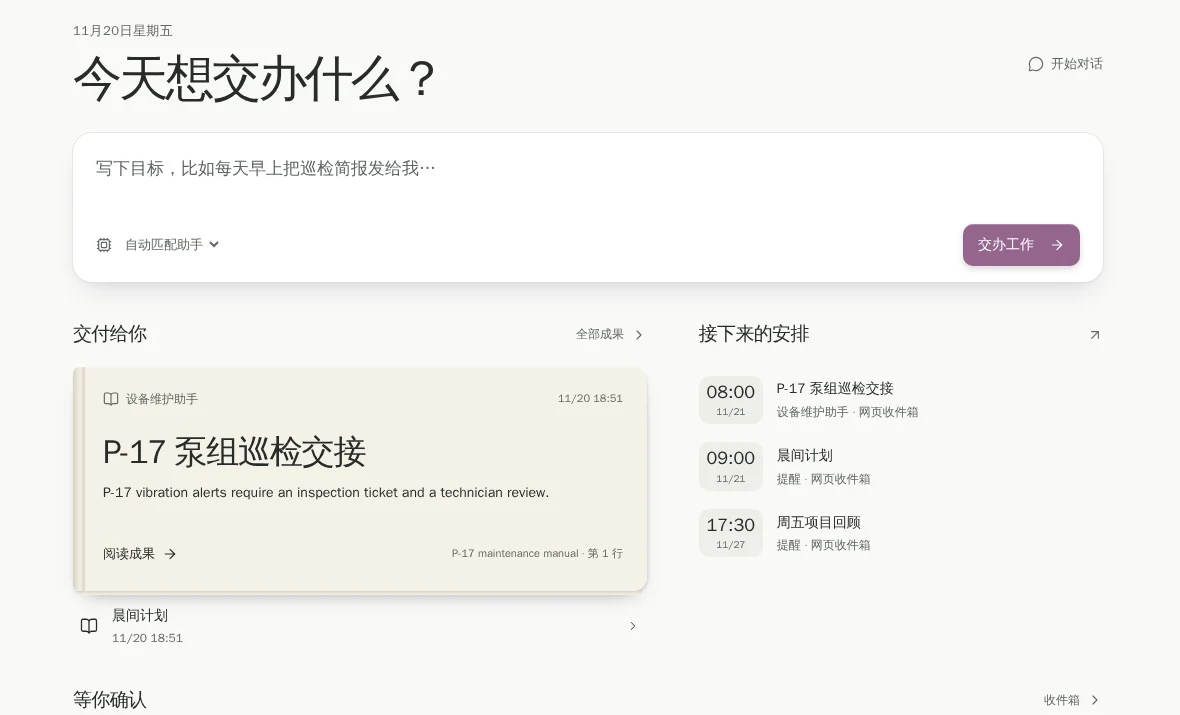
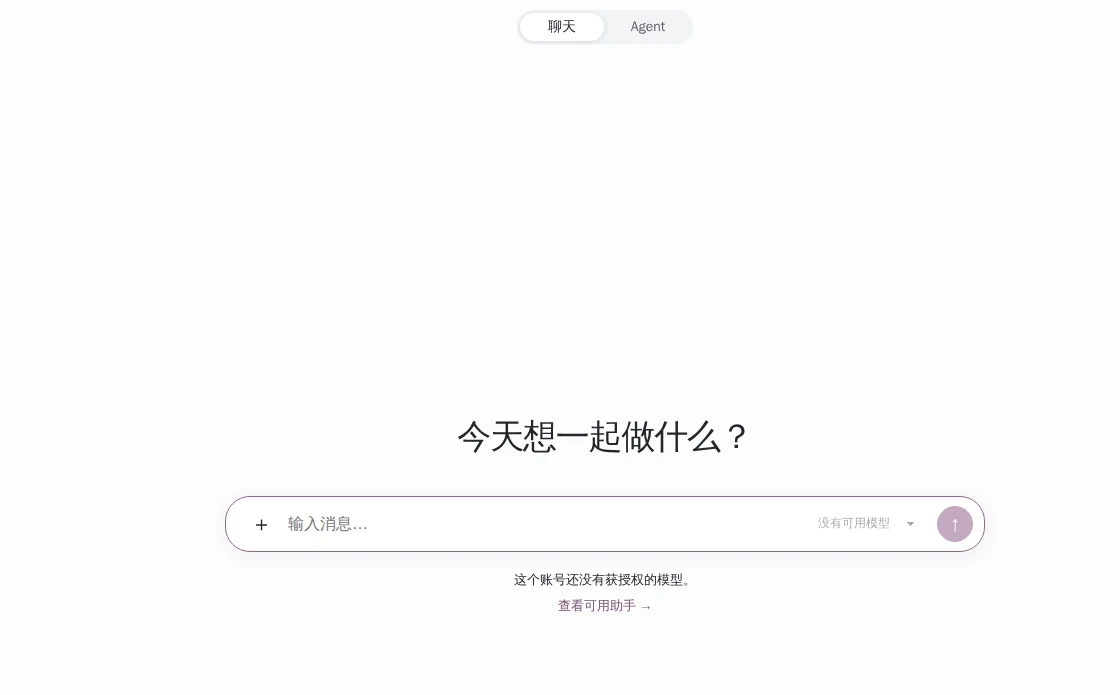
Use the latest Personal Agent workspace and run captures

diff --git a/src/lib/content.ts b/src/lib/content.ts
@@ -108,23 +108,25 @@ export const projects:Project[] = [{
   technologyZh: '源码暂未公开。',
 }, {
   slug: 'personal-agent', title: 'Personal Agent', category: 'Agent workspace', categoryZh: '智能体工作台', year: 2026,
-  summary: 'Delegate tasks, approve actions, and review the results in a self-hosted workspace.',
-  summaryZh: '在自托管工作台委托任务、确认外部操作，并跟进到最终成果。',
-  description: 'Personal Agent gives a task a place to live after it leaves the chat. See what is scheduled, what needs approval, and what has been delivered. The Studio also supports building and testing reusable agents and workflows.',
-  descriptionZh: 'Personal Agent 将对话里交办的任务接入一个可回看的工作台，方便查看近期安排、待确认操作和已交付成果。也可以在 Studio 中搭建和测试可复用的智能体与工作流。',
-  image: '/images/projects/personal-agent-workspace.webp',
-  imageAlt: 'Personal Agent workspace with a task composer, sample deliverables, and a schedule',
+  summary: 'Chat or delegate work in one workspace, then follow each task from its schedule to its result.',
+  summaryZh: '在同一个工作台聊天或交办任务，从执行安排一路跟进到最终结果。',
+  description: 'Personal Agent has two modes. Chat keeps recent conversations and model choice in view. Agent lets you find an assistant, schedule recurring work, and open a result with the recorded steps behind it. Search connects conversations, assistants, tasks, and reports.',
+  descriptionZh: 'Personal Agent 有两种模式。聊天模式支持继续历史会话并选择模型，Agent 模式可以找到助手、安排定时任务，并从交付报告回看实际的执行步骤。全局搜索串起会话、助手、任务和成果。',
+  image: '/images/projects/personal-agent-assistants.webp',
+  imageAlt: 'Personal Agent assistant directory with Chat and Agent modes',
   gallery: [],
   previews: [
-    { id: 'workspace', label: 'Workspace', labelZh: '工作台', image: '/images/projects/personal-agent-workspace.webp', width: 1180, height: 715,
-      alt: 'Personal Agent demo workspace showing task delegation and scheduled work', caption: 'Task delegation and upcoming work, shown with demo data.', captionZh: '使用演示数据展示任务委托和近期安排。' },
-    { id: 'runs', label: 'Run history', labelZh: '执行记录', image: '/images/projects/personal-agent-runs.webp', width: 800, height: 480,
-      alt: 'Personal Agent demo workflow showing executed and pending steps', caption: 'A demo run with completed steps and a pending approval.', captionZh: '一条演示运行记录，包含已执行步骤和待确认操作。' },
+    { id: 'chat', label: 'Chat', labelZh: '聊天', image: '/images/projects/personal-agent-workspace.webp', width: 1120, height: 695,
+      alt: 'Personal Agent chat home with the Chat and Agent mode switch', caption: 'Chat and Agent open from the same workspace.', captionZh: '同一个工作台可以切换聊天与 Agent 模式。' },
+    { id: 'assistants', label: 'Assistants', labelZh: '助手', image: '/images/projects/personal-agent-assistants.webp', width: 1025, height: 570,
+      alt: 'Personal Agent demo assistant directory with actions for chatting and scheduling work', caption: 'Start a conversation with an assistant or schedule work from its entry.', captionZh: '从助手目录发起会话或安排定时工作。' },
+    { id: 'runs', label: 'Run history', labelZh: '执行记录', image: '/images/projects/personal-agent-runs.webp', width: 487, height: 734,
+      alt: 'Personal Agent demo run panel with completed execution steps and a delivery receipt', caption: 'A demo task with recorded execution steps and its delivery receipt.', captionZh: '演示任务的实际执行步骤和交付回执。' },
   ],
   features: [
-    { title: 'Delegate', titleZh: '委托任务', description: 'Start a task in chat or schedule it to run later.', descriptionZh: '在对话里发起任务，或安排稍后运行。' },
-    { title: 'Review', titleZh: '确认操作', description: 'See and approve the specific external action a workflow is about to take.', descriptionZh: '查看工作流即将执行的具体外部操作，再决定是否批准。' },
-    { title: 'Follow the result', titleZh: '跟进结果', description: 'Reopen a run, inspect its steps, and find the delivered result.', descriptionZh: '回看运行步骤，并找到已交付的成果。' },
+    { title: 'Chat', titleZh: '聊天', description: 'Resume an earlier conversation or choose an available model in the composer.', descriptionZh: '继续之前的会话，或在输入区选择可用模型。' },
+    { title: 'Delegate', titleZh: '交办任务', description: 'Find an assistant and start a conversation or schedule recurring work.', descriptionZh: '找到合适的助手，发起会话或安排定时工作。' },
+    { title: 'Review results', titleZh: '回看结果', description: 'Find a delivered result and inspect the steps that produced it.', descriptionZh: '打开已交付成果并回看对应的执行步骤。' },
   ],
   technology: 'Source code is private.',
   technologyZh: '源码暂未公开。',

diff --git a/tests/site.spec.ts b/tests/site.spec.ts
@@ -141,6 +141,11 @@ test('project showcases work on mobile and only public software links to source'
   const detail = page.locator('.project-detail');
   await expect(detail).toContainText('Source code is private.');
   await expect(detail.locator('a[href*="github.com"]')).toHaveCount(0);
+  if (project.slug === 'personal-agent') {
+   await expect(detail.getByRole('tab', { name: 'Chat', exact: true })).toHaveAttribute('aria-selected', 'true');
+   await detail.getByRole('tab', { name: 'Assistants', exact: true }).click();
+   await expect(detail.locator('.stage-capture[aria-hidden="false"] img')).toHaveAttribute('src', /personal-agent-assistants/);
+  }
   await detail.getByRole('tab', { name: project.tab, exact: true }).click();
   await expect(detail.locator('.stage-capture[aria-hidden="false"] img')).toHaveAttribute('src', new RegExp(project.asset));
   expect(await page.evaluate(() => document.documentElement.scrollWidth)).toBeLessThanOrEqual(390);
